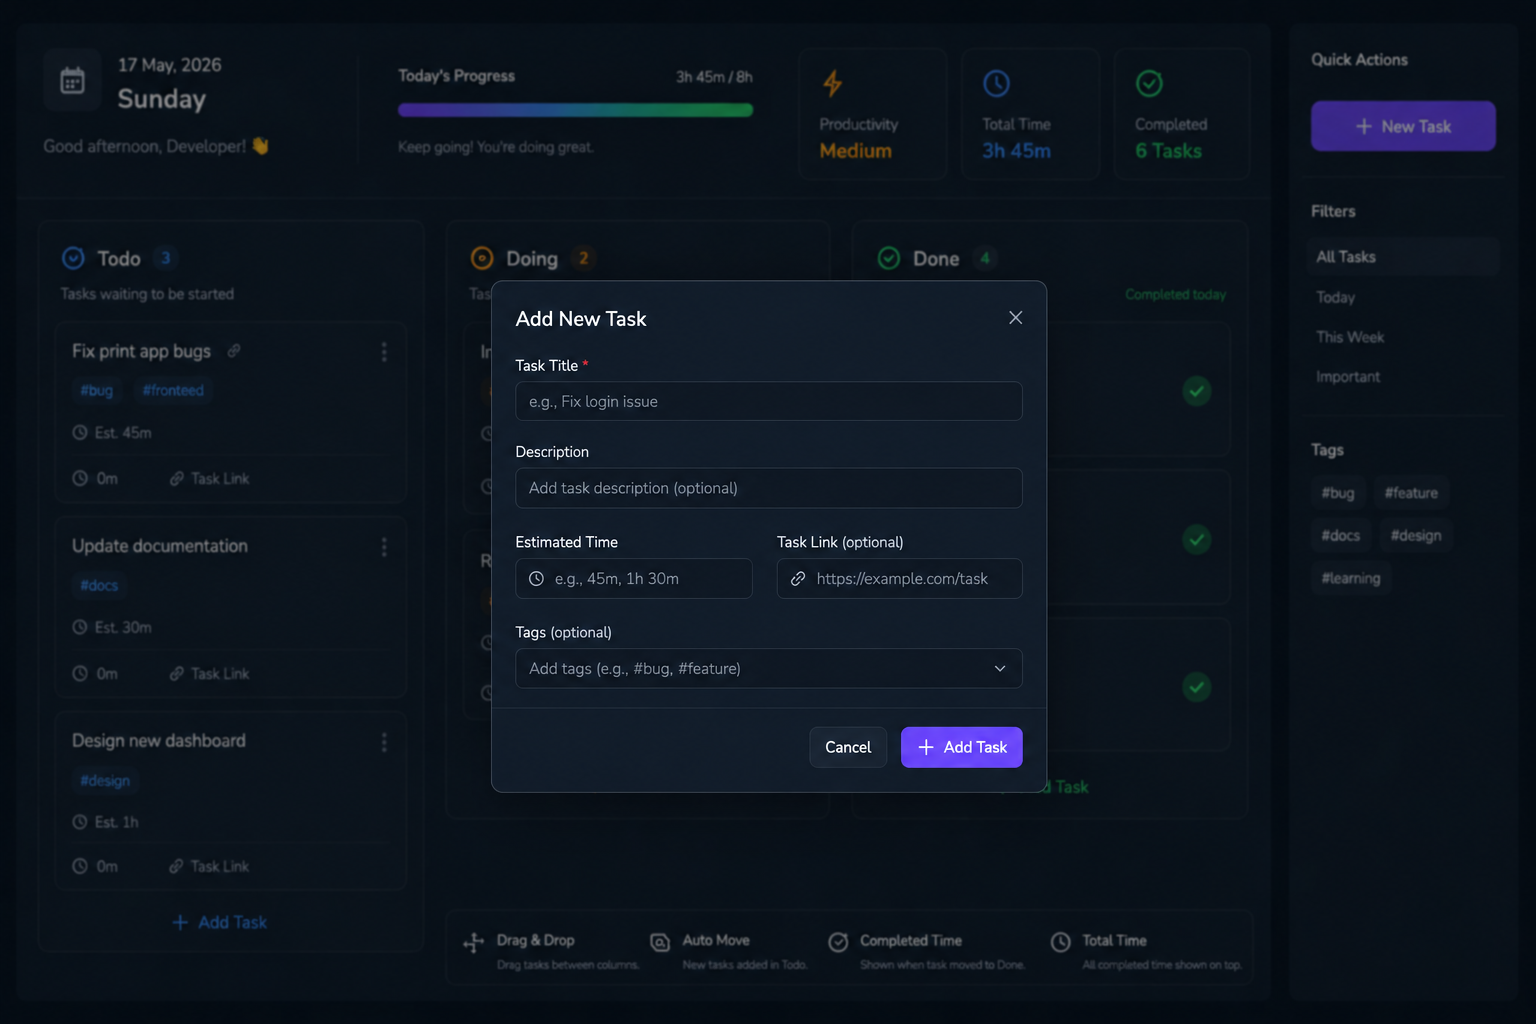
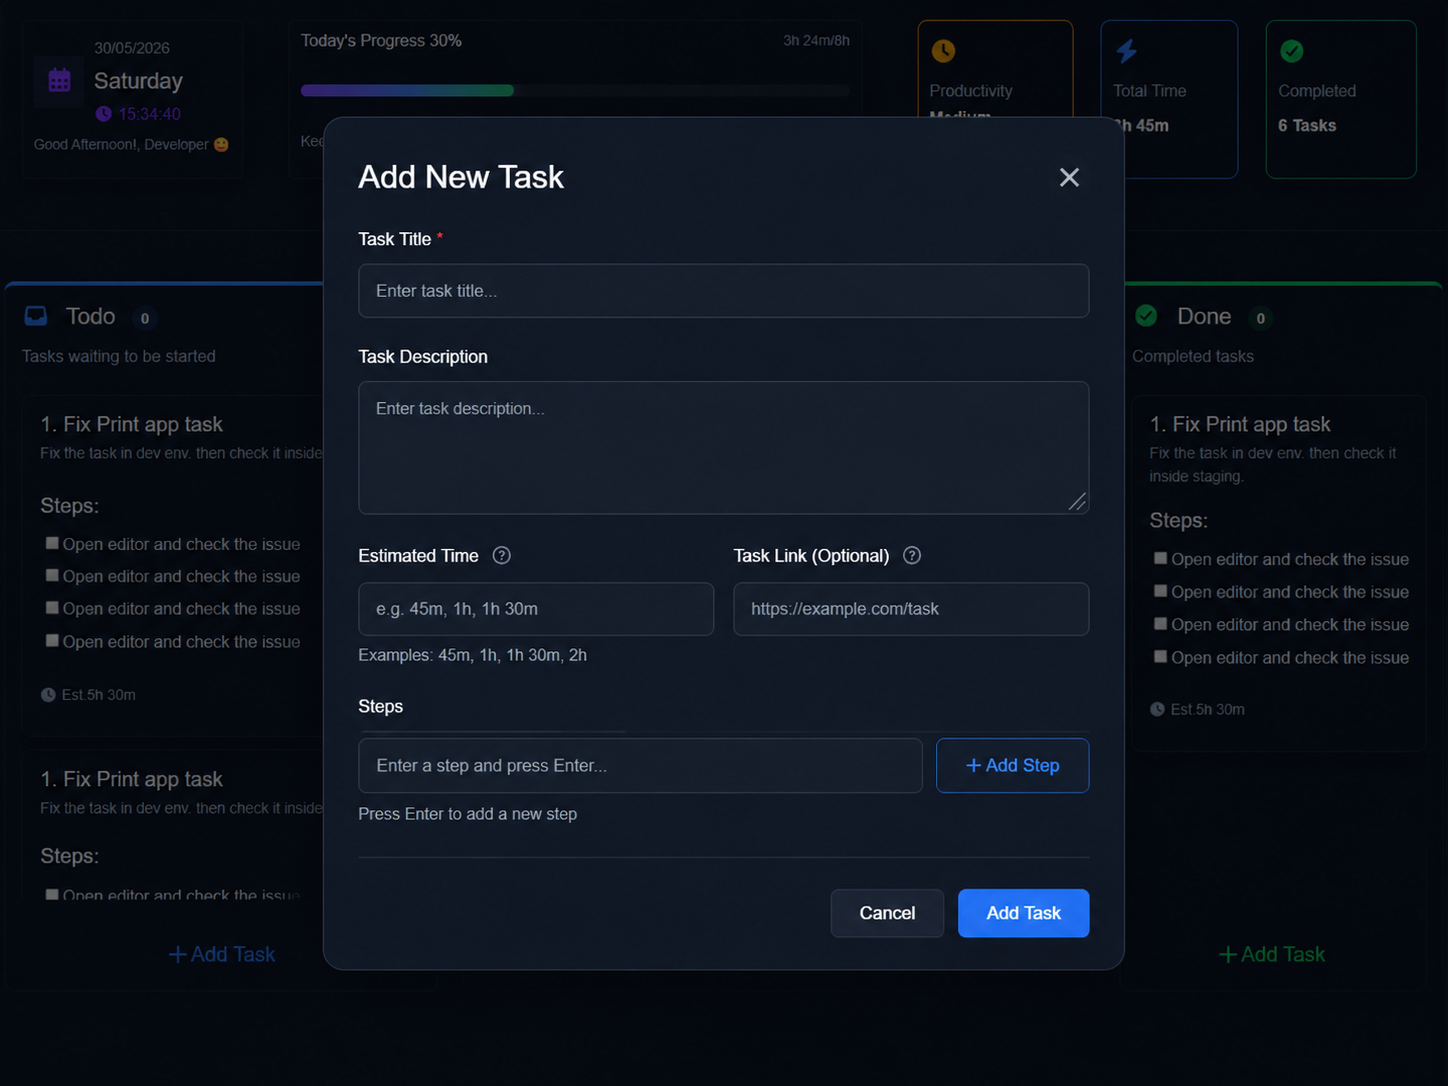
UI: Updated Modal UI

diff --git a/client/src/components/modal/addTaskModal.jsx b/client/src/components/modal/addTaskModal.jsx
@@ -1,5 +1,7 @@
 import { useState } from 'react';
 import { Modal } from './modal';
+import { FontAwesomeIcon } from '@fortawesome/react-fontawesome';
+import { faX } from '@fortawesome/free-solid-svg-icons';
 import './modal.css';
 
 export const AddTaskModal = ({onClose}) => {
@@ -11,13 +13,30 @@ export const AddTaskModal = ({onClose}) => {
         taskLink: ''
     });
 
-
     return (
         <Modal onClose={onClose}>
-            <div>
-                <h2> Add New Task </h2>
+            <div className="white-color">
+                <div className="flex">
+                    <h2> Add New Task </h2>
+                    <button type="button" onClick={onClose}>
+                        <FontAwesomeIcon icon={faX} />
+                    </button>
+                </div>
+
+                <label htmlFor="">Task Title</label>
                 <input type="text" placeholder='Title' value={task.title}/>
-                <input placeholder='Description' value={task.title}/>
+                <label htmlFor="">Task Description</label>
+                <input placeholder='Description' value={task.description}/>
+                <div className='flex'>
+                    <div>
+                        <label htmlFor="">Estimated Time</label>
+                        <input type="text" placeholder='Estimated Time' />
+                    </div>
+                    <div>
+                        <label htmlFor="">Task Link (Optional)</label>
+                        <input type="text" placeholder='Task Link' />
+                    </div>
+                </div>
                 <button>Add Task</button>
             </div>
         </Modal>

diff --git a/client/src/style/utilities.css b/client/src/style/utilities.css
@@ -26,6 +26,10 @@
 }
 
 /* colors */
+.white-color {
+  color: #F4F7FA;
+}
+
 .primary-gray {
   color: #94A3B8;
 }

diff --git a/client/src/App.jsx b/client/src/App.jsx
@@ -4,7 +4,7 @@ import './App.css';
 function App() {
 
   return (
-    <div className="dashboard-container">
+    <div className="dashboard-container white-color">
       <Dashboard />
     </div>
   )

diff --git a/client/src/App.css b/client/src/App.css
@@ -5,7 +5,6 @@
   background: linear-gradient(244deg,
       #0B0F19 0%,
       #131A26 100%);
-  color: #F4F7FA;
   font-family: sans-serif;
   padding: 20px;
 }

diff --git a/client/src/components/modal/modal.css b/client/src/components/modal/modal.css
@@ -17,4 +17,5 @@
     border: 1px solid rgba(255,255,255,0.08);
     border-radius: 20px;
     padding: 24px;
+    font-family: sans-serif;
 }